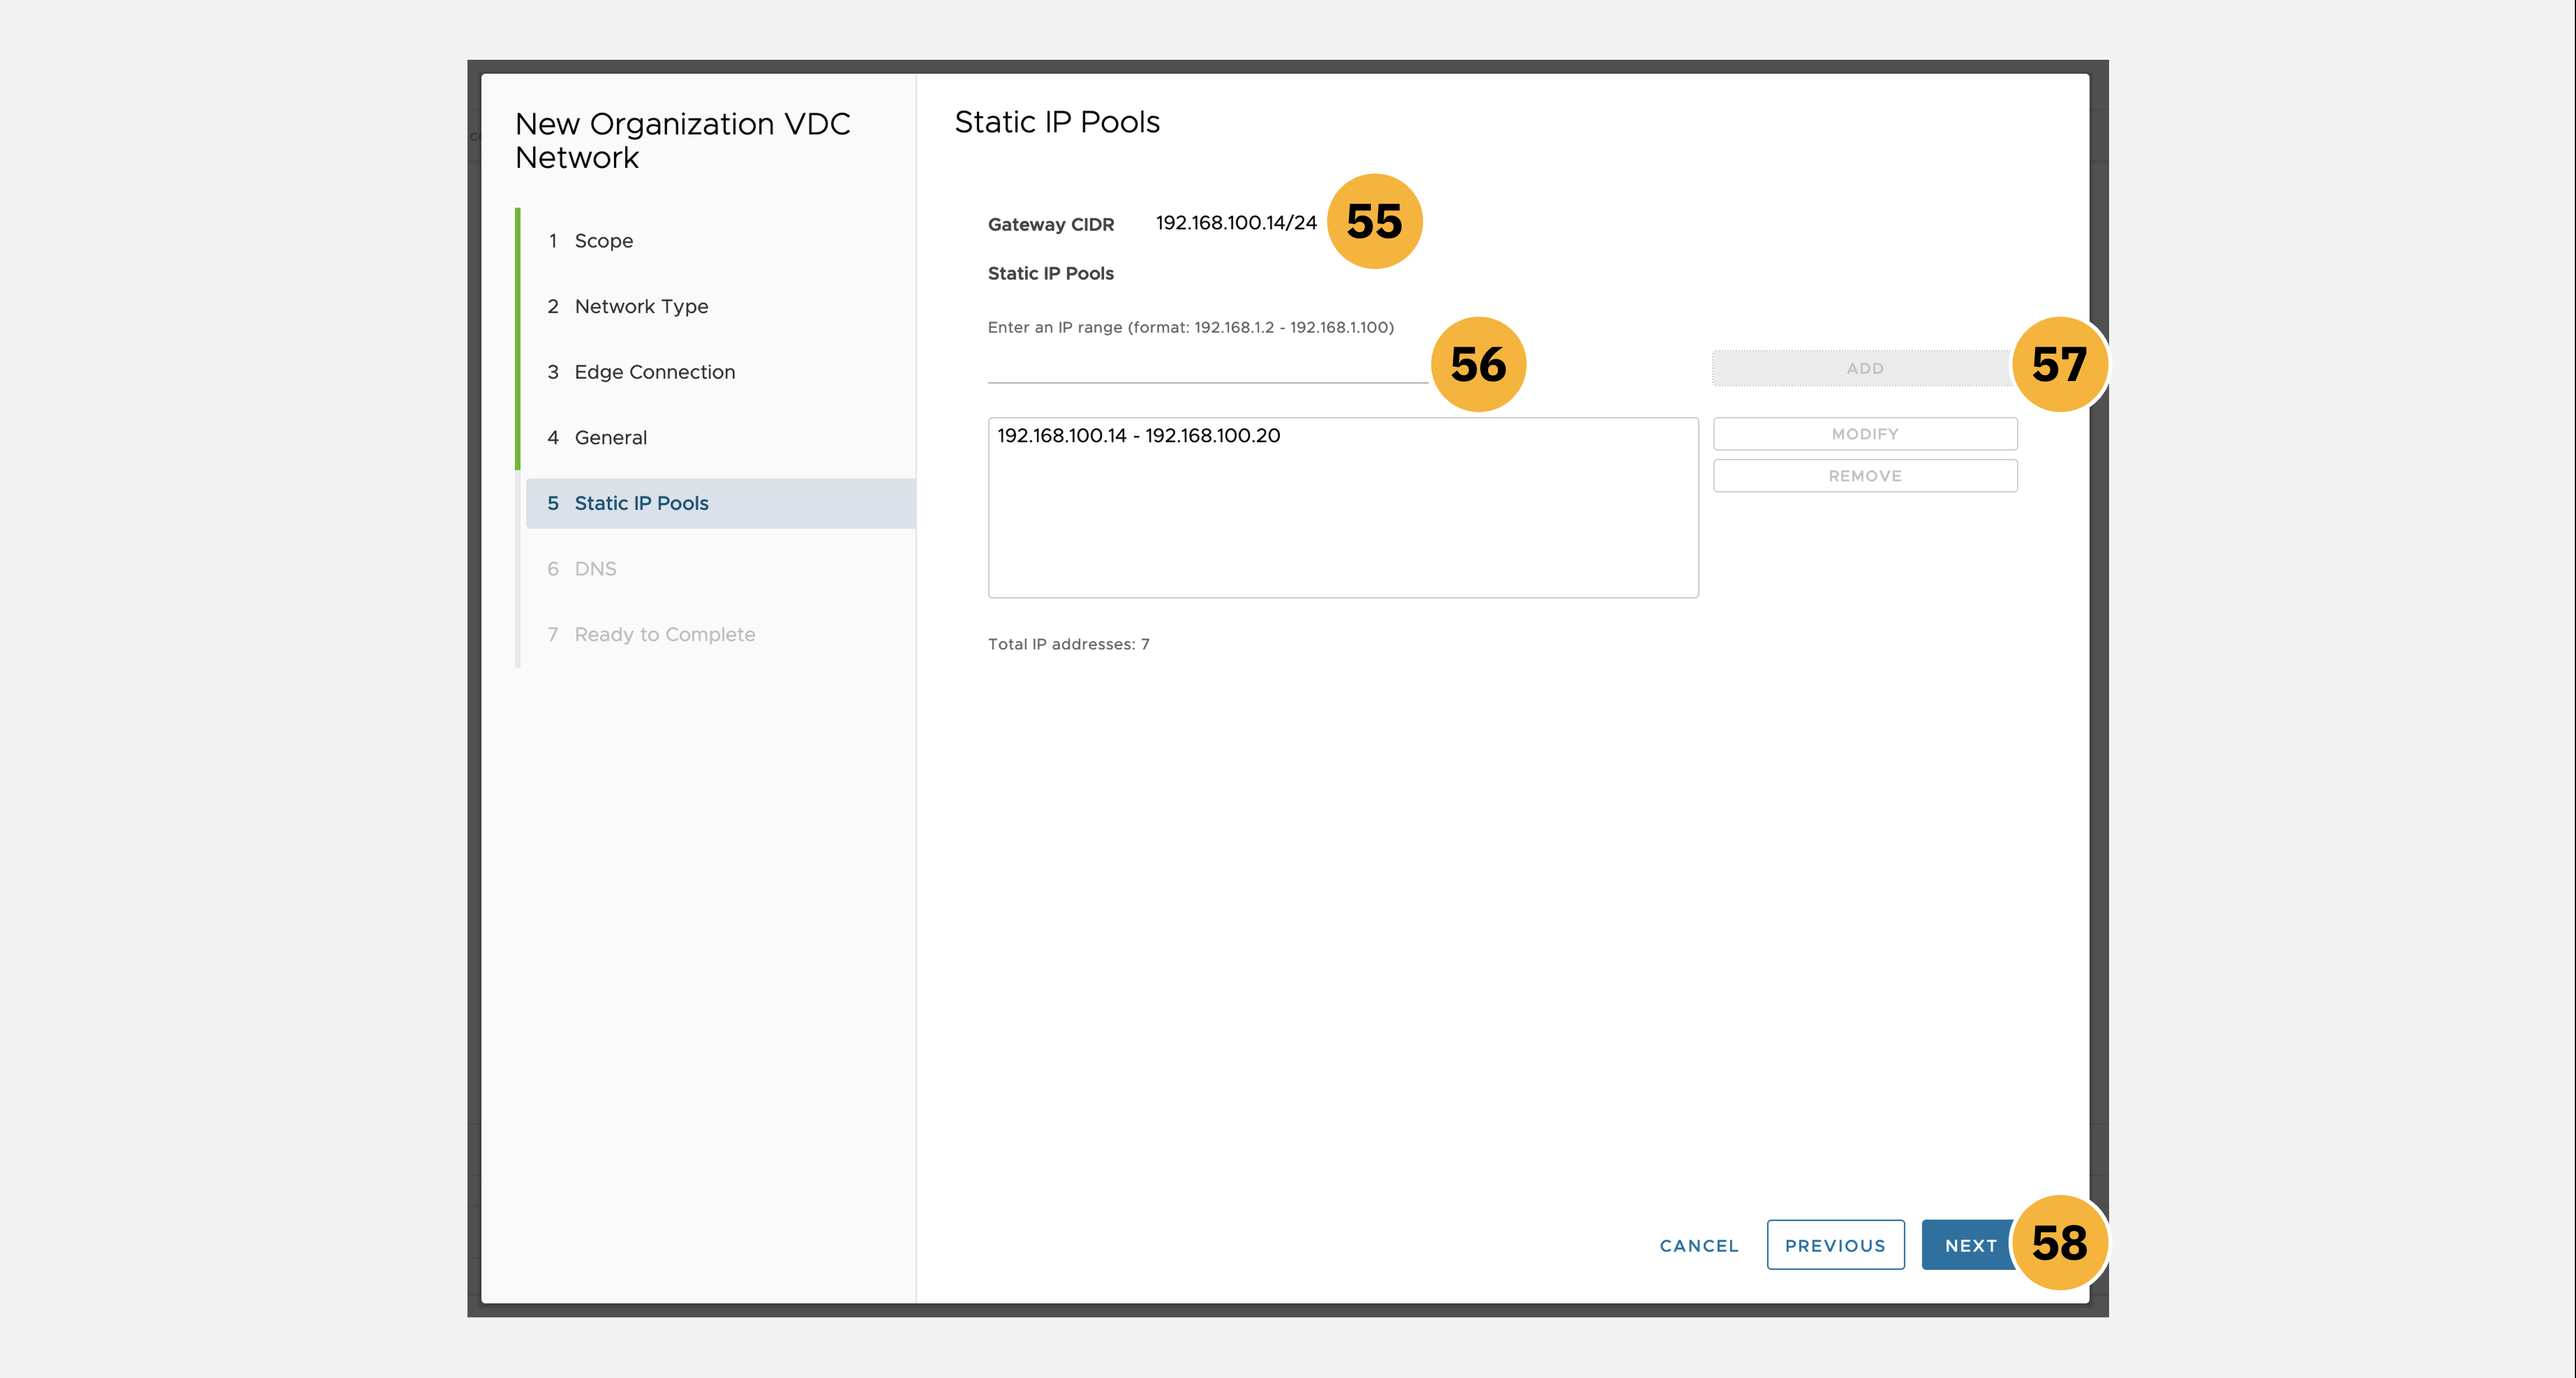
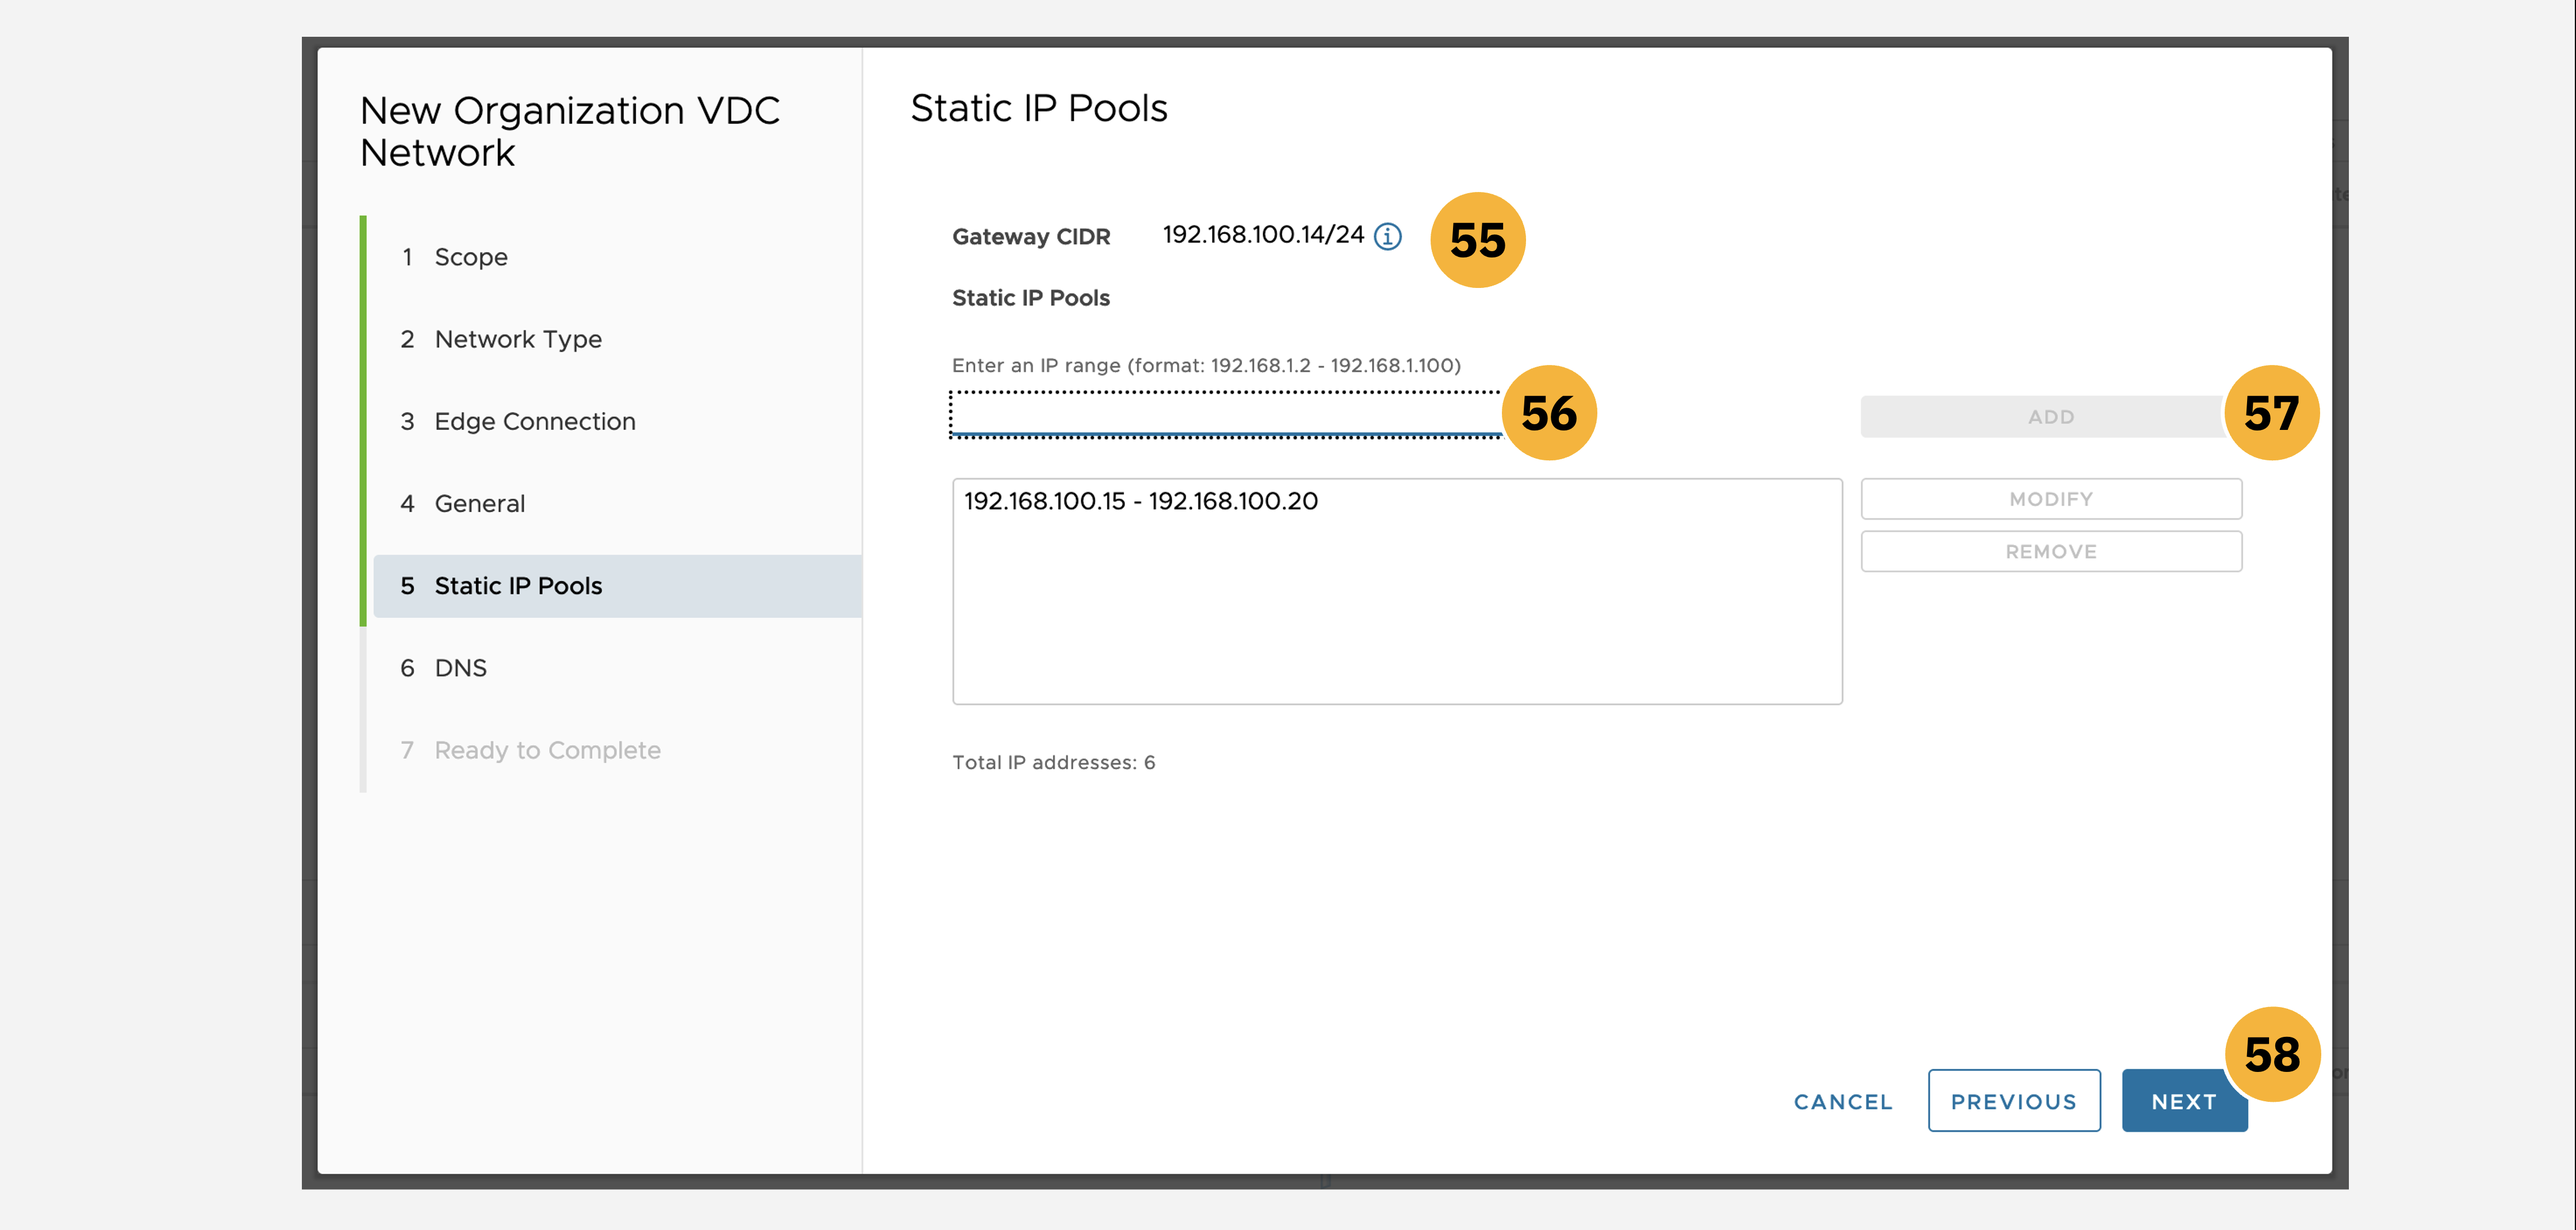
+1

diff --git a/docs/Shared/Managing.md b/docs/Shared/Managing.md
@@ -227,7 +227,7 @@ A **Gateway CIDR** must be assigned, which includes the IP address of the gatewa
 
 55. **Static IP Pools** must now be assigned to the Gateway CIDR assigned earlier in **Step 52**. Verify that the CIDR displayed on this panel matches the one that you designated previously.
 
-56. You may enable whichever range of IP addresses you wish; however, for the sake of example, let's assign a range of 7 IP addresses by entering ```192.168.100.14 - 192.168.100.20``` into the form as shown. Portable IP addresses are available to all resources on a VLAN, whereas static IP addresses are available to the resource identified as their routing endpoint.
+56. You may enable whichever range of IP addresses you wish; however, for the sake of example, let's assign a range of 7 IP addresses by entering ```192.168.100.15 - 192.168.100.20``` into the form as shown. Portable IP addresses are available to all resources on a VLAN, whereas static IP addresses are available to the resource identified as their routing endpoint.
 
 57. Click the **Add** button after entering the IP address ranges to add them to the Static IP Pool.
 
